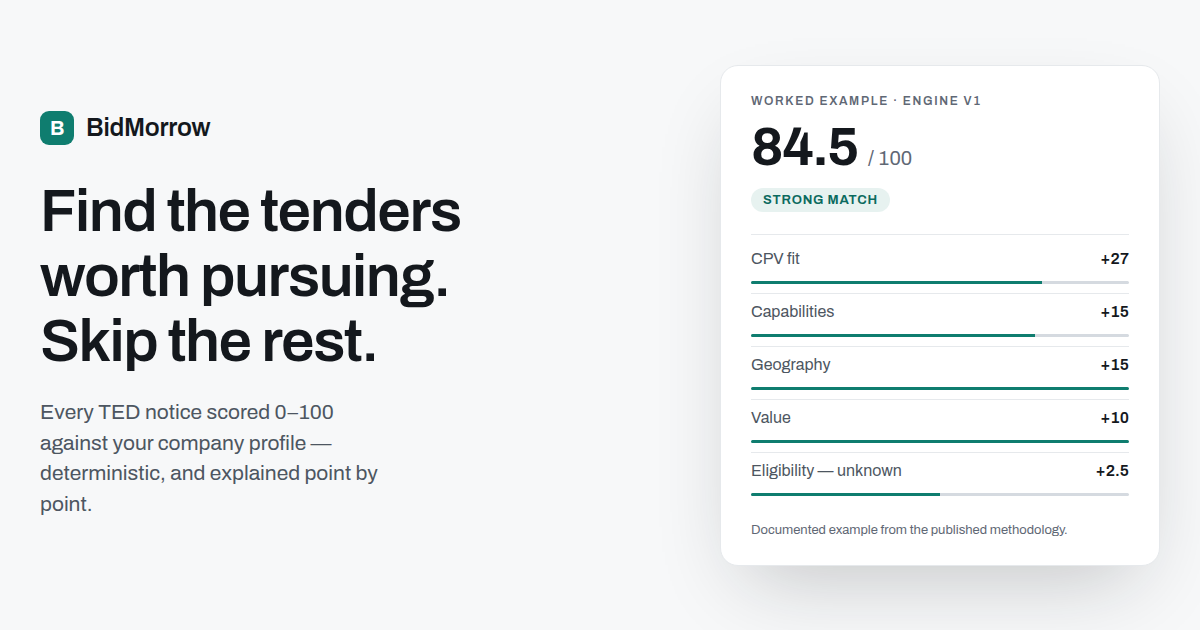
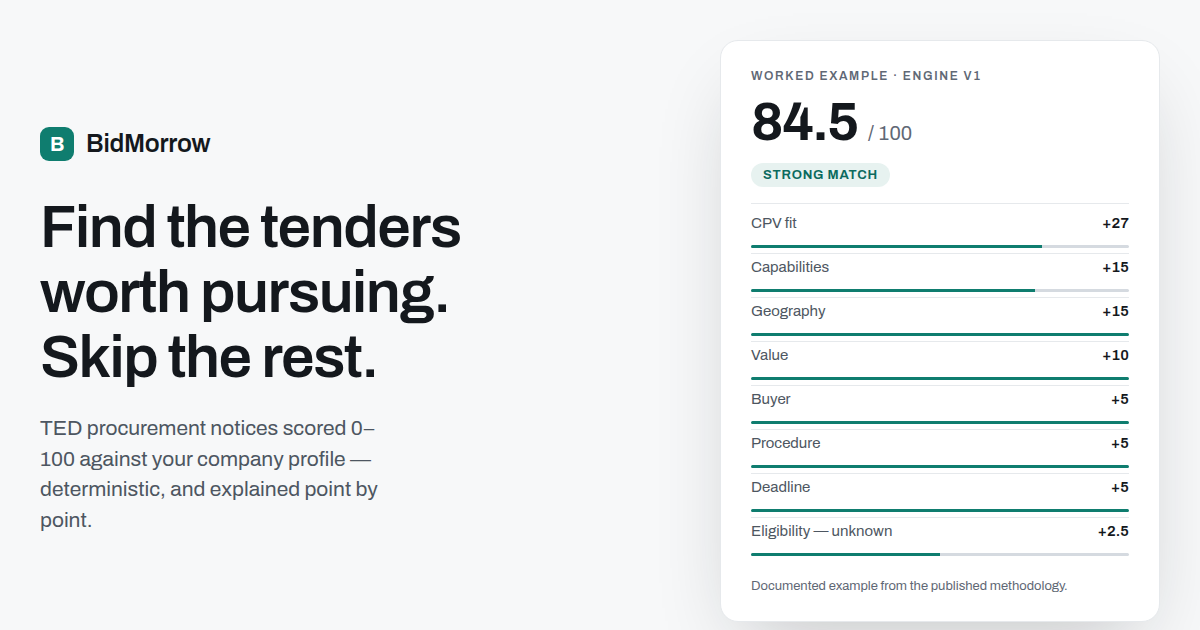
fix(web): address security and product review findings on M0.2
security review (PASS, 2 Low + 4 Info):
- LOW-01: robots.txt no longer names /admin. The admin plane's isolation
  control is 404 cloaking (threat-model C11) — the server 404s every
  non-allowlisted caller and the SPA renders the same NotFound as any
  unknown URL. robots.txt is the first file a scanner fetches, so listing
  /admin advertised the one path the system refuses to confirm. Nothing is
  lost: Disallow was never what kept it out of the index, its noindex is.
  This diverges from the SEO spec draft deliberately; robots.test.ts now
  asserts the absence.
- LOW-02: deploy-production smoke now asserts robots.txt serves the
  production body and sitemap.xml resolves. APP_ENV is an untyped string,
  so a missing or mis-cased value would have served a blanket Disallow: /
  and deindexed the live site with nothing to catch it.
- INFO-01: the _headers rationale comment claimed only /api/* reaches the
  Worker — stale as of this branch, and it is the recorded justification
  for a security control.
- INFO-04: the wrangler comment now records how the syntax was actually
  verified (Cloudflare docs MCP + installed wrangler 4.123.0 schema;
  developers.cloudflare.com is proxy-blocked here) rather than implying a
  direct docs fetch.

product review (2 blocking, both fixed):
- The share image read "Every TED notice scored 0-100" — an exhaustive
  coverage claim the product-truth rules forbid for a scoped-CPV product.
[…]

diff --git a/tests/security/analytics-claim.test.ts b/tests/security/analytics-claim.test.ts
@@ -1,0 +1,53 @@
+/**
+ * Guards a public promise with an executable check.
+ *
+ * `/privacy`'s meta description (apps/web/src/lib/seo.ts) and the privacy page
+ * itself state "no third-party analytics, no session replay". That is true
+ * today only because the SPA contains no analytics loader at all — GA4 is an
+ * OPEN owner decision (HUMAN_DECISION_BLOCKERS item 10: a real measurement ID
+ * plus a CSP allowlist change for googletagmanager.com / google-analytics.com).
+ *
+ * Nothing else connects that future decision to this shipped claim, so turning
+ * analytics on would quietly convert a published privacy promise into a false
+ * one. This test is that connection: adding a third-party analytics loader
+ * fails here, forcing the privacy copy — and the CSP — to be revisited in the
+ * same change rather than months later.
+ *
+ * Lives in tests/security (a Node-environment project) rather than beside
+ * seo.ts, because it walks the filesystem.
+ */
+import { readdirSync, readFileSync, statSync } from 'node:fs';
+import { dirname, join, resolve } from 'node:path';
+import { fileURLToPath } from 'node:url';
+import { describe, expect, it } from 'vitest';
+import { MARKETING_META } from '../../apps/web/src/lib/seo';
+
+const WEB_SRC = resolve(dirname(fileURLToPath(import.meta.url)), '../../apps/web/src');
+
+/** Markers for the third-party analytics the privacy copy promises we don't run. */
+const ANALYTICS_MARKERS = ['googletagmanager.com', 'google-analytics.com', 'gtag('];
+
+function sourceFiles(dir: string): string[] {
+  return readdirSync(dir).flatMap((entry) => {
+    const full = join(dir, entry);
+    if (statSync(full).isDirectory()) return sourceFiles(full);
+    return /\.(ts|tsx)$/.test(entry) && !entry.endsWith('.test.ts') ? [full] : [];
+  });
+}
+
+describe('privacy claim: no third-party analytics', () => {
+  it('the claim is actually published', () => {
+    expect(MARKETING_META.privacy.description).toContain('no third-party analytics');
+  });
+
+  it('no third-party analytics loader exists in the shipped SPA', () => {
+    const files = sourceFiles(WEB_SRC);
+    // Guard against a silently-empty scan: a walk that finds nothing would
+    // make the assertion below vacuously true forever.
+    expect(files.length).toBeGreaterThan(20);
+    const offenders = files.filter((file) =>
+      ANALYTICS_MARKERS.some((marker) => readFileSync(file, 'utf8').includes(marker)),
+    );
+    expect(offenders).toEqual([]);
+  });
+});

diff --git a/apps/web/src/lib/seo.ts b/apps/web/src/lib/seo.ts
@@ -14,7 +14,10 @@
  * - "life of your subscription" price hold: Pricing.tsx:32, Home.tsx:951.
  * - eight score components summing to 100, five hard-exclusion rules:
  *   docs/matching-engine.md.
- * - support@bidmorrow.com: pages/marketing/Contact.tsx.
+ * - support@bidmorrow.com for general contact (pages/marketing/Contact.tsx),
+ *   privacy@bidmorrow.com for data requests (pages/marketing/Privacy.tsx) —
+ *   the /contact description names both, because routing every question to
+ *   support@ would have contradicted the privacy page it links to.
  * - no third-party analytics / no session replay / no data sales:
  *   pages/marketing/Privacy.tsx.
  *
@@ -52,9 +55,9 @@ export const MARKETING_META = {
     canonical: `${SITE_ORIGIN}/`,
   },
   howItWorks: {
-    title: 'How BidMorrow Works — TED Notices to a Shortlist',
+    title: 'How BidMorrow Works — Scoring, Step by Step',
     description:
-      'From daily TED ingestion to a scored shortlist: profile setup, scoped CPV coverage, deterministic 0–100 scoring, and one daily digest email.',
+      'How BidMorrow works, step by step: profile setup, scoped daily TED ingestion, deterministic 0–100 scoring, and one daily digest email.',
     canonical: `${SITE_ORIGIN}/how-it-works`,
   },
   methodology: {
@@ -78,7 +81,7 @@ export const MARKETING_META = {
   contact: {
     title: 'Contact — BidMorrow',
     description:
-      'Support, billing, privacy, and general questions — email support@bidmorrow.com. Email-only by design.',
+      'Support, billing and general questions — support@bidmorrow.com. Privacy and data requests — privacy@bidmorrow.com. Email-only by design.',
     canonical: `${SITE_ORIGIN}/contact`,
   },
   privacy: {

diff --git a/scripts/og/og-default.html b/scripts/og/og-default.html
@@ -146,7 +146,7 @@
       }
 
       .rows {
-        margin-top: 22px;
+        margin-top: 16px;
         border-top: 1px solid var(--line-hair);
         padding-top: 6px;
         list-style: none;
@@ -156,9 +156,9 @@
         grid-template-columns: 1fr auto;
         align-items: center;
         gap: 14px;
-        padding: 9px 0;
+        padding: 5px 0;
         border-bottom: 1px solid var(--line-hair);
-        font-size: 16px;
+        font-size: 15px;
         color: var(--ink-2);
       }
       .rows li:last-child {
@@ -197,8 +197,8 @@
         </div>
         <h1>Find the tenders worth pursuing. Skip the rest.</h1>
         <p class="lede">
-          Every TED notice scored 0–100 against your company profile — deterministic, and explained
-          point by point.
+          TED procurement notices scored 0–100 against your company profile — deterministic, and
+          explained point by point.
         </p>
       </div>
 
@@ -218,6 +218,15 @@
           </li>
           <li>
             <span>Value</span><b>+10</b><span class="bar"><i style="width: 100%"></i></span>
+          </li>
+          <li>
+            <span>Buyer</span><b>+5</b><span class="bar"><i style="width: 100%"></i></span>
+          </li>
+          <li>
+            <span>Procedure</span><b>+5</b><span class="bar"><i style="width: 100%"></i></span>
+          </li>
+          <li>
+            <span>Deadline</span><b>+5</b><span class="bar"><i style="width: 100%"></i></span>
           </li>
           <li>
             <span>Eligibility — unknown</span><b>+2.5</b

diff --git a/apps/worker/src/robots.ts b/apps/worker/src/robots.ts
@@ -9,10 +9,18 @@
  *
  * Production rules follow docs/redesign/seo-content-strategy.md §5:
  *
- * - `/app`, `/admin`, `/onboarding` and `/api` are disallowed for crawl-budget
- *   hygiene. Each also renders a `noindex` meta (components/NoIndex.tsx),
+ * - `/app`, `/onboarding` and `/api` are disallowed for crawl-budget hygiene.
+ *   The first two also render a `noindex` meta (components/NoIndex.tsx),
  *   because `Disallow` only stops crawling — a URL discovered elsewhere can
  *   still be listed without it.
+ * - `/admin` is deliberately ABSENT, diverging from the §5 draft. The admin
+ *   plane's isolation control is 404 cloaking (docs/threat-model.md C11: the
+ *   server 404s every non-allowlisted caller and the SPA renders the same
+ *   NotFound as any unknown URL). robots.txt is the most-fetched file on any
+ *   site, so naming `/admin` there advertises exactly the path the rest of
+ *   the system refuses to confirm. Nothing is lost by omitting it: by the
+ *   reasoning above, `Disallow` was never what kept `/admin` out of the
+ *   index — its `noindex` is, and that still ships.
  * - The auth routes are deliberately NOT disallowed. A page has to stay
  *   crawlable for its `noindex` to be read at all; disallowing them would
  *   preserve exactly the listing we are trying to prevent.
@@ -28,7 +36,6 @@ export function robotsTxt(appEnv: string): string {
   return [
     'User-agent: *',
     'Disallow: /app',
-    'Disallow: /admin',
     'Disallow: /onboarding',
     'Disallow: /api',
     '',

diff --git a/apps/worker/src/robots.test.ts b/apps/worker/src/robots.test.ts
@@ -15,10 +15,17 @@ describe('robotsTxt (pure)', () => {
   it('production disallows the app surfaces and points at the sitemap', () => {
     const body = robotsTxt('production');
     expect(body).toContain('User-agent: *');
-    for (const path of ['/app', '/admin', '/onboarding', '/api']) {
+    for (const path of ['/app', '/onboarding', '/api']) {
       expect(body).toContain(`Disallow: ${path}`);
     }
     expect(body).toContain('Sitemap: https://bidmorrow.com/sitemap.xml');
+  });
+
+  it('production never advertises /admin — the cloaked surface stays uncloaked', () => {
+    // docs/threat-model.md C11: admin isolation is 404 cloaking. robots.txt is
+    // the first file a scanner fetches; naming /admin there would hand over
+    // the one path the server refuses to confirm exists.
+    expect(robotsTxt('production')).not.toContain('/admin');
   });
 
   it('production leaves the auth routes crawlable so their noindex is readable', () => {
